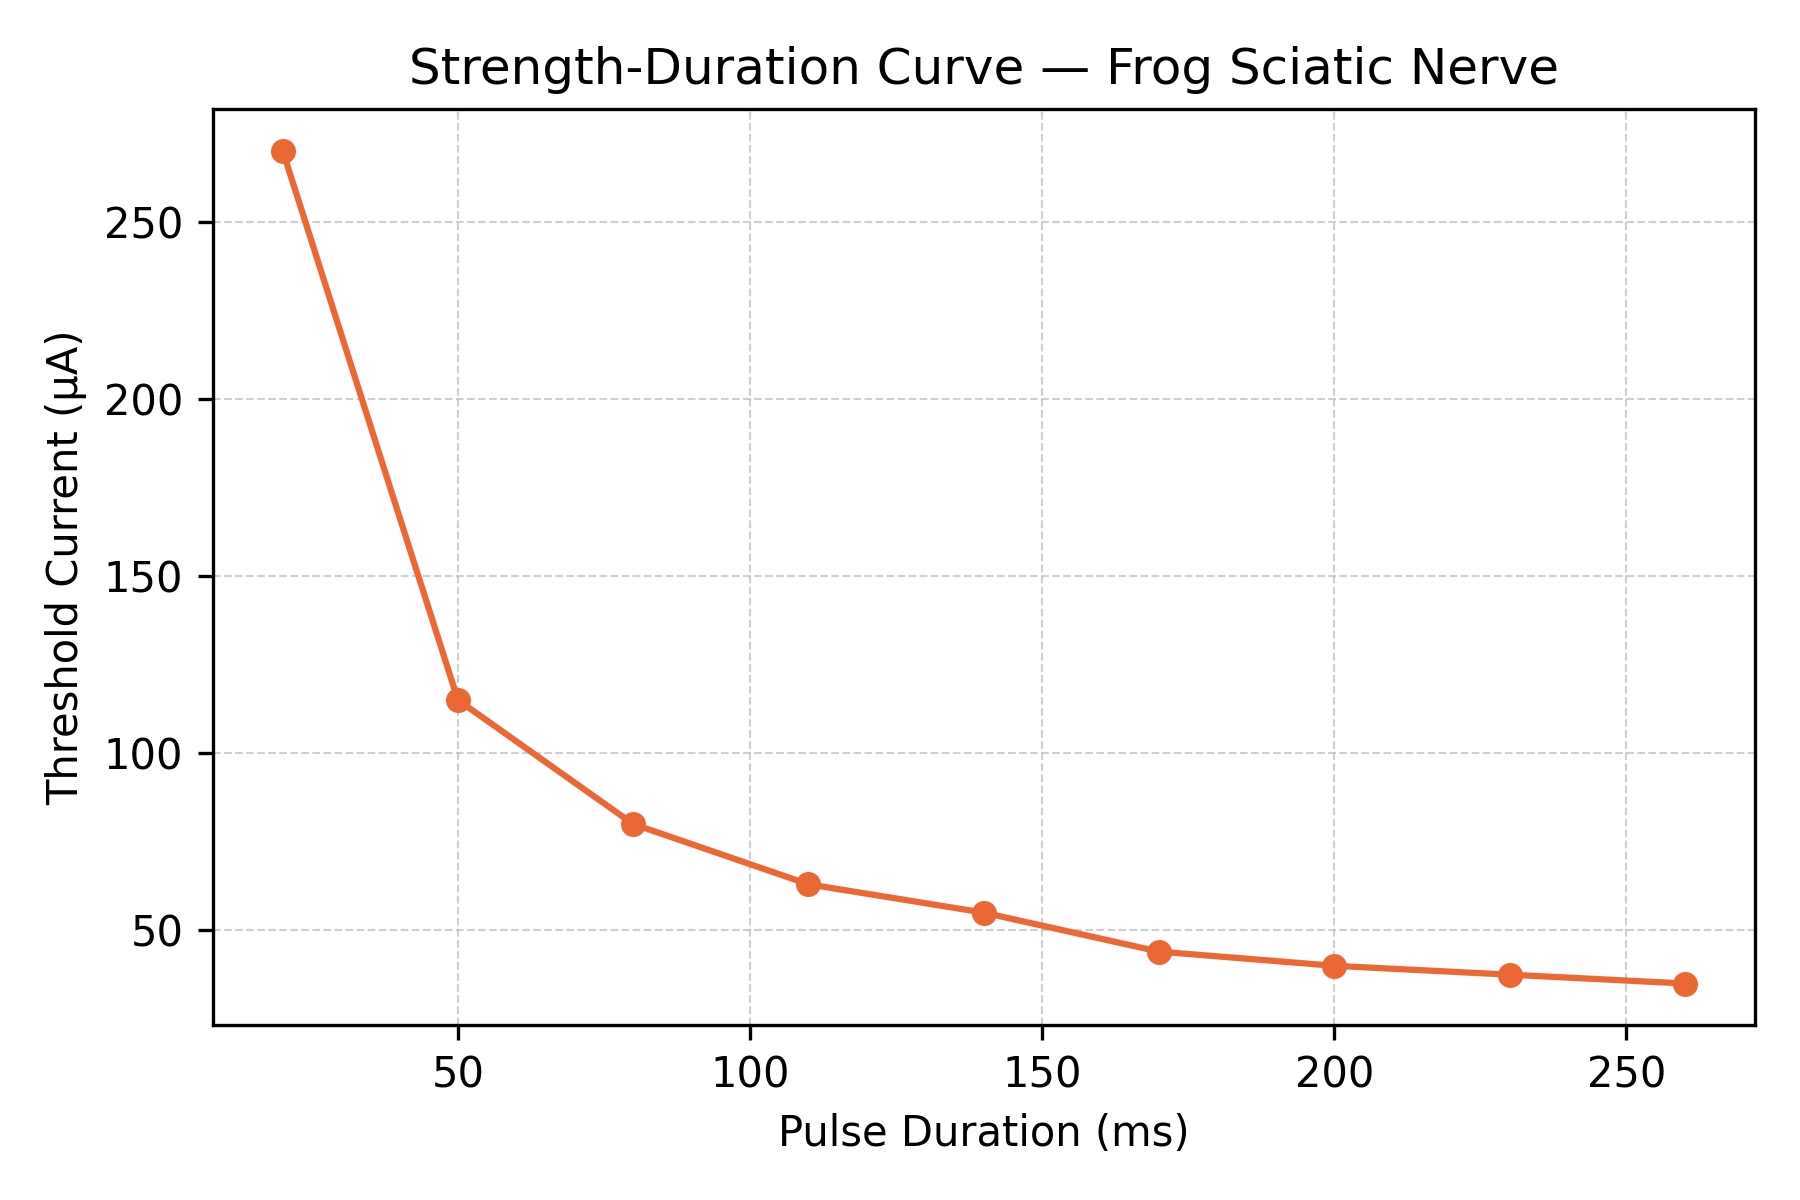
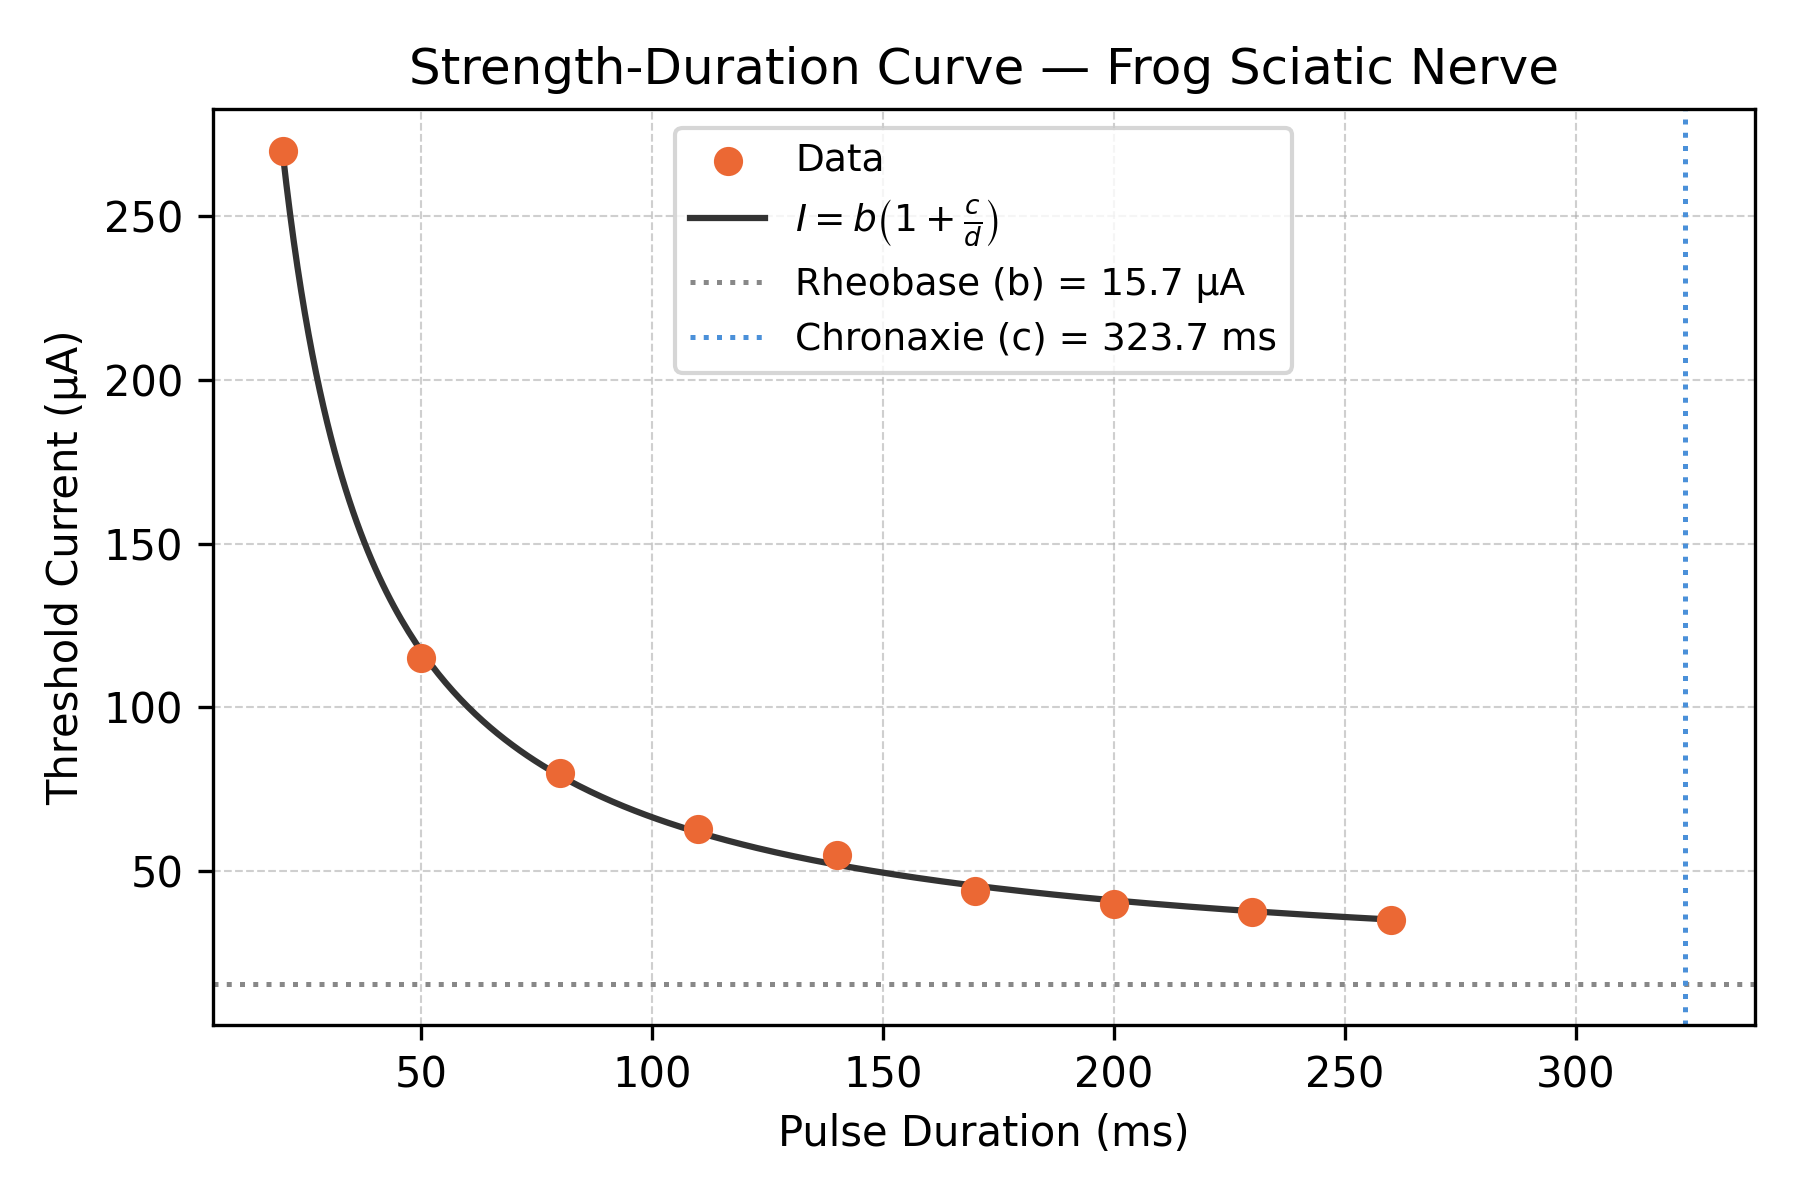
Updated sd_curve.py with updated curve fit display

diff --git a/sd_curve.py b/sd_curve.py
@@ -2,6 +2,7 @@ import csv
 import os
 import numpy as np
 import matplotlib.pyplot as plt
+from scipy.optimize import curve_fit
 
 DATA_DIR = os.path.join(os.path.dirname(__file__), "data")
 IMG_DIR  = os.path.join(os.path.dirname(__file__), "images")
@@ -26,14 +27,30 @@ order      = np.argsort(duration_ms)
 duration_ms = duration_ms[order]
 current_uA  = current_uA[order]
 
+# Fit Weiss/Lapicque model: I = I_rh * (1 + t_c / t)
+def sd_model(d, b, c):
+    return b * (1 + c / d)
+
+popt, _ = curve_fit(sd_model, duration_ms, current_uA, p0=[30, 100])
+b, c = popt
+
+t_fit   = np.linspace(duration_ms.min(), duration_ms.max(), 300)
+I_fit   = sd_model(t_fit, b, c)
+
 fig, ax = plt.subplots(figsize=(6, 4))
 
-ax.plot(duration_ms, current_uA, marker="o", linewidth=1.5,
-        markersize=5, color="#eb6834")
+ax.scatter(duration_ms, current_uA, color="#eb6834", zorder=3, label="Data")
+ax.plot(t_fit, I_fit, color="#333333", linewidth=1.5,
+        label=r"$I = b\left(1 + \frac{c}{d}\right)$")
 
 ax.set_xlabel("Pulse Duration (ms)")
 ax.set_ylabel("Threshold Current (µA)")
 ax.set_title("Strength-Duration Curve — Frog Sciatic Nerve")
+ax.axhline(b, linestyle=":", color="#888888", linewidth=1.2,
+           label=f"Rheobase (b) = {b:.1f} µA")
+ax.axvline(c, linestyle=":", color="#4a90d9", linewidth=1.2,
+           label=f"Chronaxie (c) = {c:.1f} ms")
+ax.legend(fontsize=9)
 
 ax.grid(True, linestyle="--", linewidth=0.5, alpha=0.6)
 fig.tight_layout()
